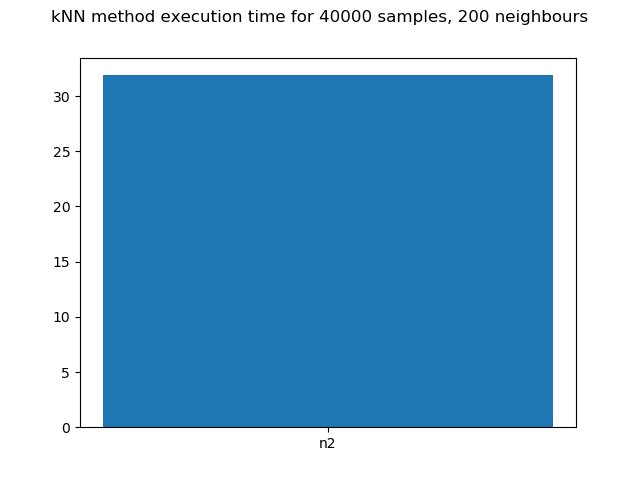
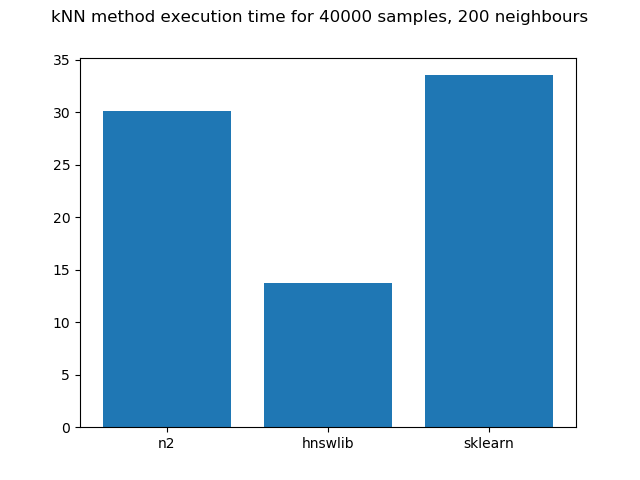
Added hnswlib and sklearn to benchmarks. Cleared typing a bit.

diff --git a/kNN_test.py b/kNN_test.py
@@ -2,13 +2,12 @@ import re
 import math
 import time
 
+from random import choices
+from typing import Dict, List, Optional, Any
+from multiprocessing import cpu_count
+
 import numpy as np
 import matplotlib.pyplot as plt
-
-from copy import deepcopy
-from random import choices
-from typing import Dict, List, Optional
-from multiprocessing import cpu_count
 
 from gensim.models import Word2Vec
 from nltk.tokenize import TreebankWordTokenizer
@@ -60,7 +59,7 @@ def _vectorize_strings(error_tokens_list: List[List[str]]) -> np.ndarray:
     result = []
     model = Word2Vec(error_tokens_list, size=100, window=5, min_count=1, workers=cpu_count(), iter=10)
     for error in error_tokens_list:
-        sentence_vector = []
+        sentence_vector: List[Any] = []
         token_number = 0
         for token in error:
             if token_number == 0:
@@ -74,11 +73,11 @@ def _vectorize_strings(error_tokens_list: List[List[str]]) -> np.ndarray:
 
 
 def prepare_file(filename: str, sample_size: int) -> np.ndarray:
-    data = _open_file(filename, sample_size)
-    data = _clean_file_contents(data)
-    data = _tokenize_strings(data)
-    data = _vectorize_strings(data)
-    return data
+    strings = _open_file(filename, sample_size)
+    strings = _clean_file_contents(strings)
+    tokens = _tokenize_strings(strings)
+    tokens = _vectorize_strings(tokens)
+    return tokens
 
 
 def benchmark_kNN_methods(matrix: np.ndarray, k: Optional[int]) -> Dict[str, float]:
@@ -112,9 +111,10 @@ def plot_benchmark_results(results: Dict[int, Dict[str, float]], k: Optional[int
     # TODO: Axis names
     plt.figure()
     sample_sizes = list(results.keys())
-    benchmark_times = deepcopy(list(results.values())[0])
-    for method in benchmark_times.keys():
-        benchmark_times[method] = []
+    benchmark_times: Dict[str, List] = dict(zip(
+        list(results.values())[0],
+        (list() for i in range(len(results)))
+    ))
     for method_results in results.values():
         for method, elapsed_time in method_results.items():
             benchmark_times[method].append(elapsed_time)

diff --git a/knn_methods/hnswlib_knn.py b/knn_methods/hnswlib_knn.py
@@ -1,0 +1,13 @@
+import numpy as np
+import hnswlib
+from statistics import mean
+from typing import List
+
+
+def kNN(matrix: np.ndarray, k: int) -> List[float]:
+    index = hnswlib.Index(space='l2', dim=matrix.shape[1])
+    index.init_index(max_elements=matrix.shape[0], ef_construction=int(k * 1.1), M=48)
+    index.add_items(matrix)
+    labels, distances = index.knn_query(matrix, k=k)
+    result = np.sort(list(mean(np.sqrt(dist)) for dist in distances))
+    return result

diff --git a/knn_methods/sklearn_knn.py b/knn_methods/sklearn_knn.py
@@ -1,0 +1,14 @@
+import numpy as np
+from statistics import mean
+from sklearn.neighbors import NearestNeighbors
+from typing import List
+
+
+def kNN(matrix: np.ndarray, k: int) -> List[float]:
+    neigh = NearestNeighbors(n_neighbors=k, metric='l2')
+    nbrs = neigh.fit(matrix)
+    distances, indices = nbrs.kneighbors(matrix)
+    avg_distances = []
+    for line in distances:
+        avg_distances.append(mean(line))
+    return np.sort(avg_distances)

diff --git a/knn_methods/n2_knn.py b/knn_methods/n2_knn.py
@@ -2,9 +2,10 @@ import numpy as np
 from statistics import mean
 from multiprocessing import cpu_count
 from n2 import HnswIndex
+from typing import List
 
 
-def kNN(matrix, k):
+def kNN(matrix: np.ndarray, k: int) -> List[float]:
     index = HnswIndex(matrix.shape[1], 'L2')
     for sample in matrix:
         index.add_data(sample)

diff --git a/knn_methods/__init__.py b/knn_methods/__init__.py
@@ -1,5 +1,9 @@
 from . import n2_knn
+from . import hnswlib_knn
+from . import sklearn_knn
 
 method_list = {
-    "n2": n2_knn.kNN
+    "n2": n2_knn.kNN,
+    "hnswlib": hnswlib_knn.kNN,
+    "sklearn": sklearn_knn.kNN
 }
